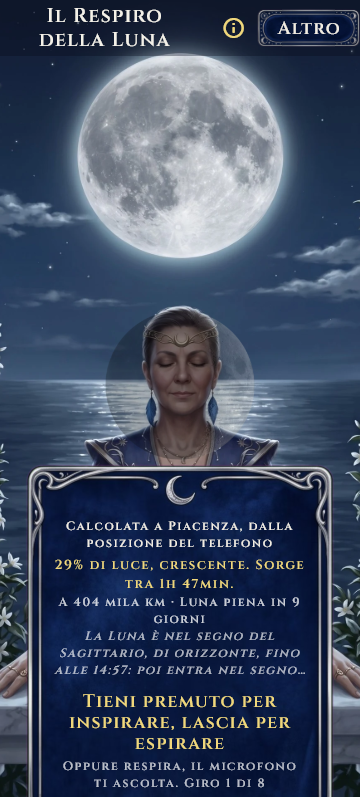
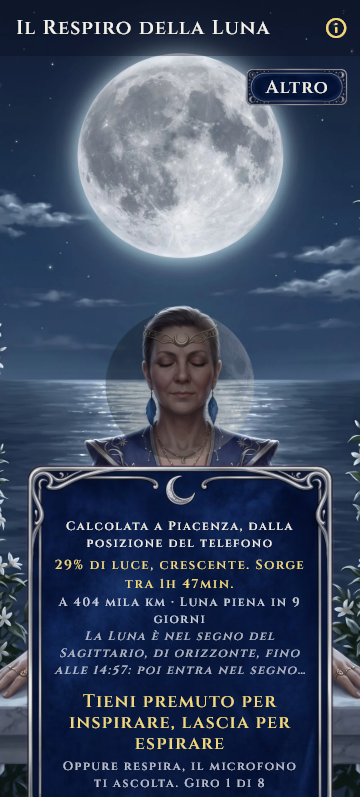
Ordine FX, aggiunta FXA.04: il titolo del Respiro tagliato sul Realme (build 2312, "Luna" spariva). La prova montava la schermata senza SogliaArte, cioe' senza il cuore: ora monta la rotta vera e pretende il titolo intero, rossa su 5 combinazioni su 8; "Altro" esce dalla barra e sta nel cielo in alt

Changed region(s): [[0.0306, 0.0, 1.0, 0.1506]]

diff --git a/test/il_titolo_del_respiro_non_tocca_i_comandi_test.dart b/test/il_titolo_del_respiro_non_tocca_i_comandi_test.dart
@@ -1,10 +1,14 @@
+import 'package:esoteric_circle/core/arts/arti_preferite.dart';
 import 'package:esoteric_circle/core/lunario/il_dial_a_moon.dart';
+import 'package:esoteric_circle/core/maestro/maestro.dart';
 import 'package:esoteric_circle/core/maestro/maestro_controller.dart';
 import 'package:esoteric_circle/design_system/components/titolo_che_non_si_rompe.dart';
 import 'package:esoteric_circle/design_system/theme/maestro_scope.dart';
+import 'package:esoteric_circle/features/maestri/rotta_arte.dart';
 import 'package:esoteric_circle/features/respiro_della_luna/il_respiro_della_luna_screen.dart';
 import 'package:esoteric_circle/features/respiro_della_luna/la_collana_delle_lune_screen.dart';
 import 'package:flutter/material.dart';
+import 'package:flutter/rendering.dart';
 import 'package:flutter_test/flutter_test.dart';
 import 'package:http/http.dart' as http;
 import 'package:http/testing.dart';
@@ -20,12 +24,23 @@ import 'package:shared_preferences/shared_preferences.dart';
 /// schermo: nessun rettangolo del testo del titolo puo' intersecare quello
 /// di un comando (la freccia indietro, le fonti, "Altro", l'angolo della
 /// barra), e il titolo resta dentro la barra in altezza.
+///
+/// **Il Respiro si monta come lo monta l'app**, dentro [SogliaArte] e con lo
+/// scaffale delle arti preferite: e' cosi' che nella barra compare il cuore.
+/// La prima stesura della prova lo montava nudo, senza cuore, e diceva 16 su
+/// 16; sul Realme, build 2312, il titolo andava a capo in tre righe e "Luna"
+/// spariva. Il titolo poi deve stare intero: si pretende che il testo non
+/// sia tagliato, non solo che non tocchi i comandi.
 void main() {
   IlDialAMoon offline() =>
       IlDialAMoon(client: MockClient((_) async => http.Response('', 503)));
 
-  Widget host(Widget figlia, double scala) => MultiProvider(
-        providers: [ChangeNotifierProvider(create: (_) => MaestroController())],
+  Widget host(Widget figlia, double scala, ArtiPreferiteController preferite) =>
+      MultiProvider(
+        providers: [
+          ChangeNotifierProvider(create: (_) => MaestroController()),
+          ChangeNotifierProvider.value(value: preferite),
+        ],
         child: MaterialApp(
           debugShowCheckedModeBanner: false,
           builder: (context, child) => MediaQuery(
@@ -34,8 +49,8 @@ void main() {
             child: child!,
           ),
           // La rotta indietro esiste, cosi' la freccia automatica c'e'.
-          home: Builder(
-              builder: (c) => const Scaffold(body: SizedBox.shrink())),
+          home:
+              Builder(builder: (c) => const Scaffold(body: SizedBox.shrink())),
           onGenerateRoute: (_) => MaterialPageRoute<void>(
               builder: (_) => MaestroScope(child: figlia)),
           initialRoute: '/schermata',
@@ -43,9 +58,14 @@ void main() {
       );
 
   final schermate = <String, Widget Function()>{
-    'il Respiro': () => IlRespiroDellaLunaScreen(
-        now: DateTime(2026, 10, 16, 21), dialAMoon: offline()),
-    'la Collana': () => LaCollanaDelleLuneScreen(now: DateTime(2026, 10, 16, 9)),
+    'il Respiro': () => SogliaArte(
+          id: 'lunology',
+          maestro: Maestro.medora,
+          child: IlRespiroDellaLunaScreen(
+              now: DateTime(2026, 10, 16, 21), dialAMoon: offline()),
+        ),
+    'la Collana': () =>
+        LaCollanaDelleLuneScreen(now: DateTime(2026, 10, 16, 9)),
   };
 
   for (final voce in schermate.entries) {
@@ -57,7 +77,11 @@ void main() {
           tester.view.physicalSize = Size(larghezza, 800);
           tester.view.devicePixelRatio = 1.0;
           addTearDown(tester.view.reset);
-          await tester.pumpWidget(host(voce.value(), scala));
+          final preferite =
+              ArtiPreferiteController(maestroAssegnato: Maestro.medora);
+          await preferite.carica();
+          addTearDown(preferite.dispose);
+          await tester.pumpWidget(host(voce.value(), scala, preferite));
           await tester.pump();
           await tester.pump(const Duration(milliseconds: 100));
           await tester.pump(const Duration(milliseconds: 100));
@@ -65,9 +89,15 @@ void main() {
           final barra = find.byType(AppBar).last;
           final rettBarra = tester.getRect(barra);
           final titolo = find.descendant(
-              of: find.byType(TitoloCheNonSiRompe), matching: find.byType(Text));
+              of: find.byType(TitoloCheNonSiRompe),
+              matching: find.byType(Text));
           expect(titolo, findsOneWidget);
           final rettTitolo = tester.getRect(titolo);
+          // Il titolo intero: nessuna riga tagliata dal limite di righe.
+          final paragrafo = tester.renderObject<RenderParagraph>(
+              find.descendant(of: titolo, matching: find.byType(RichText)));
+          expect(paragrafo.didExceedMaxLines, isFalse,
+              reason: 'titolo tagliato:${(tester.widget<Text>(titolo)).data}');
           expect(rettTitolo.top >= rettBarra.top - 0.5, isTrue,
               reason: 'il titolo esce dalla barra in alto');
           expect(rettTitolo.bottom <= rettBarra.bottom + 0.5, isTrue,
@@ -80,8 +110,10 @@ void main() {
             for (final f in [
               find.descendant(of: barra, matching: find.byType(BackButton)),
               find.descendant(of: barra, matching: find.byType(IconButton)),
+              find.descendant(of: barra, matching: find.byType(CuorePreferita)),
               find.descendant(
-                  of: barra, matching: find.byKey(const Key('respiro_altre_voci'))),
+                  of: barra,
+                  matching: find.byKey(const Key('respiro_altre_voci'))),
             ])
               for (final e in f.evaluate())
                 tester.getRect(find.byWidget(e.widget).first),

diff --git a/lib/features/respiro_della_luna/il_respiro_della_luna_screen.dart b/lib/features/respiro_della_luna/il_respiro_della_luna_screen.dart
@@ -503,21 +503,7 @@ class _IlRespiroDellaLunaScreenState extends State<IlRespiroDellaLunaScreen>
               palette: palette,
               testo: TestiDelleFonti.respiroDellaLuna,
               chiave: 'respiro_della_luna_fonti'),
-          // **UNA SOLA PORTA PER TUTTE LE ALTRE VOCI, ordine FX.** Prima
-          // c'erano due pulsanti di testo ("Trova il giorno" e "Altro")
-          // piu' l'icona delle fonti: insieme al titolo non ci stavano,
-          // ed e' esattamente il difetto che la cattura vera ha mostrato.
-          // Il Calendario Lunare (FX.11) entra nello stesso foglio delle
-          // altre voci invece di avere una porta sua.
-          Padding(
-            padding: const EdgeInsets.symmetric(vertical: 9),
-            child: PulsanteDipinto(
-              key: const Key('respiro_altre_voci'),
-              testo: 'Altro',
-              altezza: 38,
-              onTap: () => _apriLeAltreVoci(context, tier),
-            ),
-          ),
+          // La porta delle altre voci non sta piu' qui: vedi la scena.
           const AngoloDellaBarra(),
         ],
       ),
@@ -599,6 +585,30 @@ class _IlRespiroDellaLunaScreenState extends State<IlRespiroDellaLunaScreen>
                       ),
                     );
                   },
+                ),
+              ),
+            ),
+            // **UNA SOLA PORTA PER TUTTE LE ALTRE VOCI, ordine FX, ora nel
+            // cielo in alto a destra.** Prima c'erano due pulsanti di testo
+            // ("Trova il giorno" e "Altro") piu' l'icona delle fonti, poi il
+            // solo "Altro" nella barra. Ma la rotta vera monta il Respiro
+            // dentro `SogliaArte`, che aggiunge il cuore: con la freccia, le
+            // fonti, "Altro" e il cuore al titolo restavano cosi' pochi punti
+            // che sul Realme, build 2312, si leggeva "Il / Respiro / della" e
+            // "Luna" spariva. Nella barra restano solo le icone. Il nome resta
+            // corto perche' nell'angolo stia fuori dalla Luna dipinta della
+            // scena; cosa apre lo dice il foglio, voce per voce.
+            SafeArea(
+              child: Align(
+                alignment: Alignment.topRight,
+                child: Padding(
+                  padding: const EdgeInsets.all(SpacingTokens.sm),
+                  child: PulsanteDipinto(
+                    key: const Key('respiro_altre_voci'),
+                    testo: 'Altro',
+                    altezza: 38,
+                    onTap: () => _apriLeAltreVoci(context, tier),
+                  ),
                 ),
               ),
             ),

diff --git a/lib/features/respiro_della_luna/la_collana_delle_lune_screen.dart b/lib/features/respiro_della_luna/la_collana_delle_lune_screen.dart
@@ -199,8 +199,9 @@ class _LaCollanaInCorsoState extends State<_LaCollanaInCorso> {
         // Il saldo che il server ha scalato arriva subito nel borsellino a
         // schermo, senza aspettare la prossima lettura dello stato.
         final saldo = esito.dati['saldo'];
-        if (saldo is int)
+        if (saldo is int) {
           await _forse<QuestionAllowance>()?.applicaSaldo(saldo);
+        }
         await widget.collana.ricuciUnaPerlaLocalmente(giorno, now: widget.now);
       } else {
         await _avviso('Ricuci questa perla', esito.rigaPerLaPersona);

diff --git a/docs/STATO_VIVO.md b/docs/STATO_VIVO.md
@@ -7145,7 +7145,7 @@ Il fondatore, sulla 2308, con nove catture: non fatte le voci FR 1, 2, 4, 5 e 6;
 - **Il cancello e' caduto una seconda volta sul commit della correzione (0b6ee60b), run 1380, stavolta sul cancello generale dei "rossi nuovi"**: circa trenta righe rosse mai viste prima, tutte dallo stesso fatto, FX.11 porta `lunology` attiva per la prima volta ed espone la sua schermata a decine di guardie trasversali della casa che prima la saltavano. Corretti nello stesso giro: due interruttori diretti invece di `InterruttoreDelCerchio` (FX.08); `HapticFeedback` diretto fuori dalla palette in due punti, lo scorrimento del tempo (FX.03) e l'aggancio della bussola (FX.06); la porta della bussola scritta a mano invece che con `PassaggioDelCerchio.rotta` (FX.06); `lunology` senza il suo cuore (rotta da `MaestroScope` nudo a `SogliaArte`, FX.11); `lunology` fuori dai tre registri dichiarati dell'arte, tavola delle fonti, conto nei Ricordi (con un gesto vero agganciato a `RegiaDelCammino.dopoUnGesto`, non solo dichiarato), elenco delle arti vive fuori dallo scaffale (FX.11); la porta dei fogli non l'unica, due fogli con `showModalBottomSheet` diretto (FX.02-04, FX.08); due dialoghi della Collana senza `backgroundColor` dichiarato e due `TextButton` senza `style`, quindi bianchi o sotto soglia di contrasto (FX.05); la condivisione della Collana senza il premio in Eos dichiarato ne' pagato (FX.05); cinque combinazioni di testo sotto soglia di contrasto sulla riga "Esclusiva Adepto e Illuminato" (FX.11); le sei callable nuove di FX.09 non contate nell'elenco atteso (41 a 47); una collisione testuale innocua fra il separatore delle righe di Medora e il testo che un'altra guardia cerca per il dominio di un Maestro, risolta con una costante propria (FX.07); il prefisso `respiro.` senza una strada decisa per la memoria dell'account ne' per lo scarico dei dati, dichiarato `delTelefono` perche' la ricucitura resta locale (R3); una misura tipografica sotto il pavimento, size 10 portato a 12; una virgola seguita da "e" negli avvisi del Respiro; i conteggi degli highlights e della matrice dei piani non aggiornati (13 a 14, 18 a 19, 17 a 18, matrice 62 a 66). **E un difetto preso dall'anteprima rigenerata**: il titolo della Collana tagliava a "La Collana ..." nell'AppBar, corretto con `TitoloCheNonSiRompe` come il Respiro e il Calendario Lunare. `flutter analyze` pulito, 224 prove verdi in `docs/collaudo/FX/fx_integrazione_eh04_run1380.txt`.
 - **Due difetti veri presi dalle anteprime vere, non da nessuna prova (R6)**: il titolo della schermata del Respiro tagliato a "Il ..." (tre azioni di testo nella barra non lasciavano spazio, corretto con `TitoloCheNonSiRompe` e un'unica porta "Altro"); la scena intera nera nella prima cattura (le immagini non avevano finito di decodificarsi al momento dello scatto, corretto precaricandole con `precacheImage` dentro `runAsync`). **Un difetto vero preso da una prova gia' esistente**: il pannello sotto la Luna, con sei righe di testo, cresceva abbastanza da toccare il centro della Luna e il tocco sostenuto smetteva di accenderla; condensato a tre righe, `docs/collaudo/FX/fx03_pannello_regola_a.txt`.
 
-- **L'aggiunta FXA, la collana e i comandi dipinti (voci FX.13-FX.18 del manifesto).** Il fondatore, sull'anteprima della collana composta dal codice: "Non avevo chiesto di evitare grafica procedurale?". **La collana dipinta (FX.13, chiusa)**: la schermata e' lo scrigno dipinto quasi a tutto schermo, la pittura con la collana spenta e sopra i 33 ritagli tondi della pittura accesa, preparati una volta da `tool/gli_asset_dell_aggiunta_fxa.py` e posati nei centri del file `le_perle_della_collana_v1.json` (copia Dart generata e sincrona, `le_perle_della_collana.g.dart`); la Luna vera non sta piu' nelle perle, resta nella Luna di quest'ora; tolti dal ramo sei pezzi non piu' usati. **I comandi dipinti (FX.14, chiusa)**: ogni pulsante, pannello e finestra del Respiro e' un pezzo dipinto (`i_comandi_dipinti.dart`), a nove parti fatte di nove ritagli (`ImmagineANoveParti`, perche' il `centerSlice` di Flutter sa solo allungare), con una guardia nuova; la conferma comune della spesa accetta un vestito senza cambiare testi ne' chiavi. **La ricucitura vera (FX.15, aperta)**: l'ago col filo sulla perla toccata, la conferma vestita, la porta `ricuciUnaPerlaDelRespiro` scritta e provata e non pubblicata; listino invariato, 25 Eos, 3 per ciclo, 7 giorni indietro. **Il titolo (FX.16, chiusa)**: la barra cresce col testo ingrandito, 16 combinazioni su 16. **La consegna (FX.17, chiusa)**. **Il luogo vero dal GPS (FX.18, aperta)**: a ogni apertura il Respiro chiede la posizione del telefono, la salva in `luogo.dispositivo` separata dalla citta' scelta a mano, calcola tutto da li' e scrive la citta' nel pannello; ripieghi in ordine (ultima posizione del telefono, citta' scelta, invito col permesso), mai la latitudine 0; la Luna compare subito col ripiego mentre il GPS risponde. **La guida, regola del fondatore durante l'aggiunta**: "l'utente deve sapere dov'e', cosa deve fare, per ottenere cosa, obiettivo ed eventualmente guida. Non puo' indovinare": la Collana dice lo stato della perla di oggi e la data della Luna nuova della consegna, il Respiro dice cosa accende un minuto di respiro. Guardie da 797 a 801, ognuna vista rossa (`docs/collaudo/FX/fxa_regola_a.txt`).
+- **L'aggiunta FXA, la collana e i comandi dipinti (voci FX.13-FX.18 del manifesto).** Il fondatore, sull'anteprima della collana composta dal codice: "Non avevo chiesto di evitare grafica procedurale?". **La collana dipinta (FX.13, chiusa)**: la schermata e' lo scrigno dipinto quasi a tutto schermo, la pittura con la collana spenta e sopra i 33 ritagli tondi della pittura accesa, preparati una volta da `tool/gli_asset_dell_aggiunta_fxa.py` e posati nei centri del file `le_perle_della_collana_v1.json` (copia Dart generata e sincrona, `le_perle_della_collana.g.dart`); la Luna vera non sta piu' nelle perle, resta nella Luna di quest'ora; tolti dal ramo sei pezzi non piu' usati. **I comandi dipinti (FX.14, chiusa)**: ogni pulsante, pannello e finestra del Respiro e' un pezzo dipinto (`i_comandi_dipinti.dart`), a nove parti fatte di nove ritagli (`ImmagineANoveParti`, perche' il `centerSlice` di Flutter sa solo allungare), con una guardia nuova; la conferma comune della spesa accetta un vestito senza cambiare testi ne' chiavi. **La ricucitura vera (FX.15, aperta)**: l'ago col filo sulla perla toccata, la conferma vestita, la porta `ricuciUnaPerlaDelRespiro` scritta e provata e non pubblicata; listino invariato, 25 Eos, 3 per ciclo, 7 giorni indietro. **Il titolo (FX.16, chiusa)**: la barra cresce col testo ingrandito, 16 combinazioni su 16; poi sul Realme, build 2312, il titolo del Respiro si leggeva "Il / Respiro / della" senza "Luna", perche' la rotta vera (`SogliaArte`) aggiunge il cuore e la prova montava la schermata senza: la prova ora monta la rotta vera e pretende il titolo intero, e "Altro" e' uscito dalla barra, nel cielo in alto a destra. **La consegna (FX.17, chiusa)**. **Il luogo vero dal GPS (FX.18, aperta)**: a ogni apertura il Respiro chiede la posizione del telefono, la salva in `luogo.dispositivo` separata dalla citta' scelta a mano, calcola tutto da li' e scrive la citta' nel pannello; ripieghi in ordine (ultima posizione del telefono, citta' scelta, invito col permesso), mai la latitudine 0; la Luna compare subito col ripiego mentre il GPS risponde. **La guida, regola del fondatore durante l'aggiunta**: "l'utente deve sapere dov'e', cosa deve fare, per ottenere cosa, obiettivo ed eventualmente guida. Non puo' indovinare": la Collana dice lo stato della perla di oggi e la data della Luna nuova della consegna, il Respiro dice cosa accende un minuto di respiro. Guardie da 797 a 801, ognuna vista rossa (`docs/collaudo/FX/fxa_regola_a.txt`).
 - **Il terzo rosso del cancello, run 1381 sul commit 646f69a2**: quattro righe, un "finche'" con l'apostrofo, due `catch (_)` muti, due schermate del Respiro non classificate per la barra, due `showDialog` diretti nella vecchia Collana; tutte corrette.
 
 **APERTO IN ATTESA DI VERIFICA**:

diff --git a/docs/guardie.md b/docs/guardie.md
@@ -1435,6 +1435,6 @@ le altre.
 | `la_grafica_del_respiro_e_dipinta_test.dart` | nessun `CustomPainter`, nessun cerchio o alone finto, solo icone di interfaccia dichiarate (nessuna, oggi), su `lib/features/respiro_della_luna/` (R9 dell'ordine FX: la guardia gemella del lunario, che scorre `/lunario/`, copre già `lib/core/lunario/`, dove vivono i file nuovi di questo ordine, ma non questa cartella, che non contiene quella sottostringa) | 2 | dalla porta comune, piu' il cardinale proprio (6 sorgenti non generati di lib/features/respiro_della_luna) | 16/10/2026, ordine FX voce FX.12 (rossa sull'innesto `Icons.star_rounded` in `gli_eos_del_respiro.dart`, verificato col grep, `docs/collaudo/FX/fx12_grafica_del_respiro_regola_a.txt`; il primo giro era caduto per una ragione diversa dall'innesto, un falso positivo testuale: il commento di `la_bussola_della_luna.dart` nominava `CustomPainter` per dire che non lo usa, corretto riscrivendolo senza il nome della classe) | 1 |
 | `i_comandi_del_respiro_sono_dipinti_test.dart` | in `lib/features/respiro_della_luna/` nessun `FilledButton`, `ElevatedButton`, `OutlinedButton`, `TextButton`, `ActionChip`, `Chip`, `AlertDialog`, `ListTile` usato come voce di menu' ne' `BoxDecoration` a colore pieno al posto dei pezzi dipinti di `i_comandi_dipinti.dart` (aggiunta FXA.02 dell'ordine FX), nessuna eccezione dichiarata | 2 | dalla porta comune, piu' il cardinale proprio (8 sorgenti non generati di lib/features/respiro_della_luna) | 16/10/2026, ordine FX aggiunta FXA.02 (rossa su due innesti verificati col grep, `TextButton` e `BoxDecoration(color:` in `gli_eos_del_respiro.dart`, file ripristinato con la stessa sha1, `docs/collaudo/FX/fxa_regola_a.txt`) | 1 |
 | `la_collana_dipinta_test.dart` | la collana dipinta del Respiro: le posizioni del codice sono quelle del file `le_perle_della_collana_v1.json` accanto alle pitture, le due pitture e i 33 ritagli esistono, si accendono i giorni respirati e solo col compimento la perla 30, le due perle e la medaglia, ogni ritaglio sul suo centro misurato (aggiunta FXA.01) | 1 | non scopre insiemi di file | 16/10/2026, ordine FX aggiunta FXA.01 (rossa spostando di un pixel la perla 15 nella copia Dart generata, `docs/collaudo/FX/fxa_regola_a.txt`) | 1 |
-| `il_titolo_del_respiro_non_tocca_i_comandi_test.dart` | il titolo del Respiro e della Collana resta dentro la barra e non tocca nessun comando in alto, a 320, 360, 390 e 430 punti col testo a 1,0 e a 1,3 (aggiunta FXA.04) | 1 | non scopre insiemi di file | 16/10/2026, ordine FX aggiunta FXA.04 (rossa sul difetto vero: sei combinazioni su sedici col titolo fuori dalla barra prima della correzione, `docs/collaudo/FX/fxa_regola_a.txt`) | 1 |
+| `il_titolo_del_respiro_non_tocca_i_comandi_test.dart` | il titolo del Respiro e della Collana resta dentro la barra e non tocca nessun comando in alto, a 320, 360, 390 e 430 punti col testo a 1,0 e a 1,3 (aggiunta FXA.04) | 1 | non scopre insiemi di file | 16/10/2026, ordine FX aggiunta FXA.04 (rossa sul difetto vero: sei combinazioni su sedici col titolo fuori dalla barra prima della correzione; rossa di nuovo lo stesso giorno sulla rotta vera col cuore, cinque combinazioni su otto col titolo del Respiro tagliato come sul Realme, `docs/collaudo/FX/fxa_regola_a.txt`) | 1 |
 | `il_respiro_parte_dal_luogo_vero_test.dart` | il Respiro calcola dal luogo vero: col GPS concesso ogni calcolo parte da li' e la posizione si salva come del dispositivo; senza permesso i ripieghi in ordine (ultima posizione del telefono, citta' scelta a mano); senza nessun luogo nessun calcolo, mai la latitudine 0, e l'avviso della posizione (aggiunta FXA.06) | 1 | non scopre insiemi di file | 16/10/2026, ordine FX aggiunta FXA.06 (rossa due volte con l'innesto di un luogo a latitudine 0 in `_aggiornaFoto`, `docs/collaudo/FX/fxa_regola_a.txt`) | 1 |
 Microfono di Soffio del Destino e Sigillo del Sogno, ordine FN, 13 ottobre 2026: il fondatore ha ripetuto che il soffio resta troppo poco sensibile, "devo soffiare molto forte e vicino al microfono". Abbassati i tre numeri di `FormaDelSoffio` ed `LAriaCheDirada`: `energiaMinima` da 0,0018 a 0,0012, `planaritaMinima` da 0,12 a 0,10, `quanteVolteIlFondo` da 4 a 3. **Regola B, fatta dopo e confessata**: le due guardie della zona, `il_soffio_si_riconosce_dalla_forma` e `il_sigillo_si_dirada_solo_con_l_aria`, sono state lanciate solo DOPO la modifica (il lavoro era già fatto quando ci si è accorti della regola), entrambe verdi coi nuovi valori: la forma separa ancora il soffio dalla voce, dalla musica e dal tonfo (0 false aperture su 3), e il Sigillo continua a non diradare con musica, voce o rumore di fondo leggero (0 finestre), diradando col fiato vero (43 finestre).

diff --git a/docs/ordini/RAPPORTO_ORDINE_FX.md b/docs/ordini/RAPPORTO_ORDINE_FX.md
@@ -125,3 +125,5 @@ Non esistono ancora le porte che vendono la perla ricucita, l'assaggio di Respir
 **Aggiunta del 16 ottobre 2026, ordine FX, aggiunta FXA, voce FX.17 (FXA.05, la cattura e la consegna), chiusa con la prova `docs/collaudo/FX/fxa_regola_a.txt`**: la cattura del fondatore e' in `docs/collaudo/FX/catture_fondatore/`; gli asset nuovi sono nel ramo in WebP con la trasparenza riletta identica, dichiarati in `pubspec.yaml` e `docs/stato_asset.json`, il file delle posizioni accanto alle pitture; le anteprime nuove (cinque perle, collana completa, ricucitura con la conferma, pulsante dipinto) guardate una per una, e hanno preso tre difetti prima di chiudere (la pittura rimpicciolita dalla guida, la frase dell'obiettivo sulla medaglia, il testo dei pulsanti tagliato); il registro delle guardie passa da 797 a 801. Il fondatore ha chiesto in chat la build alla fine dell'aggiunta, al posto del "Nessuna build" del testo: si consegna dopo il verde di GitHub.
 
 **Aggiunta del 16 ottobre 2026, ordine FX, aggiunta FXA, voce FX.18 (FXA.06, il luogo vero dal GPS), aperta in attesa di verifica**: il comando che mostra il difetto sulla testa vista dall'Architetto, `git grep -n "dalDispositivo\|DoveSonoAdesso.scrivi\|latitudine: _luogo" 0bb56a93 -- lib`, risponde che `LuogoAttuale.dalDispositivo` non era chiamato da nessuno, che solo la citta' scelta a mano scriveva il luogo, e che la foto della NASA partiva con `latitudine: _luogo?.lat ?? 0`. Adesso il Respiro chiede il GPS a ogni apertura, salva la posizione in un posto suo (`luogo.dispositivo`, separato dalla citta' scelta, che non si cancella), calcola tutto da li' e dice la citta' in cima al pannello dipinto; ripieghi in ordine, ciascuno con la sua riga: l'ultima posizione del telefono, la citta' scelta a mano, l'invito col permesso. Mai la latitudine 0: senza luogo nessuna richiesta alla NASA, solo la fase vera. La Luna compare subito col ripiego mentre il GPS risponde (prima la foto aspettava il GPS e la Luna mancava, preso dalla prova della schermata). Prova `test/il_respiro_parte_dal_luogo_vero_test.dart` 4 su 4, vista rossa due volte. Aspetta il fondatore sul telefono, col GPS vero.
+
+**Aggiunta del 16 ottobre 2026, ordine FX, aggiunta FXA, voce FX.16 (FXA.04, il titolo), un difetto vero visto sul telefono dopo la chiusura, prova `test/il_titolo_del_respiro_non_tocca_i_comandi_test.dart`**: installata la build 2312 dal commit 751f502a sul Realme, il titolo del Respiro si leggeva "Il / Respiro / della" e "Luna" spariva. Padre FXA.04, la prova stessa: montava il Respiro senza `SogliaArte`, cioe' senza il cuore che la rotta vera (FX.11) aggiunge alla barra, e diceva 16 su 16 su una barra che l'app non mostra. Riscritta sulla rotta vera e col titolo che non deve superare le sue righe, e' caduta su 5 combinazioni del Respiro su 8 (320 e 360 col testo a 1,0 e a 1,3, 390 a 1,3); "Altro" esce dalla barra e sta nel cielo, nell'angolo in alto a destra, fuori dalla Luna dipinta (`docs/preview/FX/fx0234_respiro_scena_ferma.png`): 16 su 16. La build 2312 si rifa' dal commit della correzione.

diff --git a/docs/ordini/ORDINE_FX_MANIFESTO.md b/docs/ordini/ORDINE_FX_MANIFESTO.md
@@ -146,11 +146,11 @@ MISURA: la prova della schermata tocca la perla di tre giorni fa, vede l'ago col
 
 ## VOCE FX.16
 
-**CHIUSA.** (Ordine FX aggiunta, voce FXA.04.) Il titolo. Nessun titolo delle schermate del Respiro tocca i comandi in alto, fra 320 e 430 punti e col testo ingrandito fino a 1,3: la barra cresce con l'ingrandimento (`altezzaDellaBarraDelRespiro`, fino a 1,4 volte), e anche il titolo della bussola passa da `TitoloCheNonSiRompe`. **Una nota onesta sulla cattura del fondatore** (`docs/collaudo/FX/catture_fondatore/fx_fondatore_collana_01.jpg`): il pulsante di chiusura sopra il titolo, insieme alla matita e alla condivisione, sono i comandi dell'anteprima della cattura di Android, non dell'app; la prova misura comunque il caso vero che quella cattura ha fatto cercare, e lo ha trovato col testo ingrandito.
+**CHIUSA.** (Ordine FX aggiunta, voce FXA.04.) Il titolo. Nessun titolo delle schermate del Respiro tocca i comandi in alto, fra 320 e 430 punti e col testo ingrandito fino a 1,3: la barra cresce con l'ingrandimento (`altezzaDellaBarraDelRespiro`, fino a 1,4 volte), e anche il titolo della bussola passa da `TitoloCheNonSiRompe`. **Un difetto vero preso sul telefono, dopo la prima chiusura**: sul Realme, build 2312, il titolo del Respiro si leggeva "Il / Respiro / della" e "Luna" spariva. La rotta vera monta il Respiro dentro `SogliaArte`, che aggiunge il cuore alla barra, e la prima stesura della prova lo montava nudo, senza cuore: misurava una barra che l'app non mostra. La prova ora monta la rotta vera e pretende anche il titolo intero, non solo lontano dai comandi; il pulsante "Altro" esce dalla barra e sta nel cielo, nell'angolo in alto a destra, fuori dalla Luna dipinta (`docs/preview/FX/fx0234_respiro_scena_ferma.png`). **Una nota onesta sulla cattura del fondatore** (`docs/collaudo/FX/catture_fondatore/fx_fondatore_collana_01.jpg`): il pulsante di chiusura sopra il titolo, insieme alla matita e alla condivisione, sono i comandi dell'anteprima della cattura di Android, non dell'app; la prova misura comunque il caso vero che quella cattura ha fatto cercare, e lo ha trovato col testo ingrandito.
 
 DOMANDA: la cattura del fondatore, "dove il titolo 'La Collana delle Lune' finisce sotto il pulsante di chiusura"
 PROVA: `test/il_titolo_del_respiro_non_tocca_i_comandi_test.dart`
-MISURA: combinazioni con il titolo fuori dalla barra o sopra un comando: da 6 su 16 (il Respiro a 360 e 430 col testo a 1,3; la Collana a 320, 360, 390 e 430 col testo a 1,3) a 0 su 16.
+MISURA: combinazioni con il titolo fuori dalla barra o sopra un comando: da 6 su 16 (il Respiro a 360 e 430 col testo a 1,3; la Collana a 320, 360, 390 e 430 col testo a 1,3) a 0 su 16; poi, con la rotta vera e il cuore nella barra, combinazioni del Respiro col titolo tagliato da 5 su 8 (320 e 360 col testo a 1,0 e a 1,3, 390 a 1,3) a 0 su 8.
 
 ## VOCE FX.17
 

diff --git a/docs/tipografia/spazi.md b/docs/tipografia/spazi.md
@@ -1,6 +1,6 @@
 # Censimento dei vuoti verticali
 
-<!-- VUOTI_CENSITI: 183 -->
+<!-- VUOTI_CENSITI: 182 -->
 <!-- FILE_CON_VUOTI: 78 -->
 <!-- VUOTI_ECCESSIVI: 2 -->
 <!-- Generato da tool/censimento_spazi.dart. Non si scrive a mano: si rigenera. -->
@@ -11,7 +11,7 @@ Misura i vuoti verticali DICHIARATI nel sorgente: `SizedBox(height: n)` e i riem
 
 | Grandezza | Valore |
 | --- | --- |
-| Vuoti verticali dichiarati | **183** |
+| Vuoti verticali dichiarati | **182** |
 | File che ne contengono | **78** |
 | Oltre la soglia di 48 punti | **2** |
 
@@ -29,7 +29,7 @@ La soglia NON e' scelta, e' derivata dalla distribuzione qui sotto, come la satu
 | 6 | 19 |
 | 7 | 3 |
 | 8 | 7 |
-| 9 | 3 |
+| 9 | 2 |
 | 10 | 3 |
 | 12 | 2 |
 | 16 | 2 |
@@ -51,7 +51,7 @@ La soglia NON e' scelta, e' derivata dalla distribuzione qui sotto, come la satu
 | `lib/features/horoscope/il_periodo_view.dart` | 7 | 0 |
 | `lib/features/passport/cosmic_passport_screen.dart` | 7 | 0 |
 | `lib/features/real_time_cosmo/cielo_reale_screen.dart` | 7 | 0 |
-| `lib/features/respiro_della_luna/il_respiro_della_luna_screen.dart` | 7 | 0 |
+| `lib/features/respiro_della_luna/il_respiro_della_luna_screen.dart` | 6 | 0 |
 | `lib/features/santuario/daily_strip.dart` | 6 | 0 |
 | `lib/features/synastry/sinastria_share_card.dart` | 6 | 1 |
 | `lib/features/tarot/tarot_selectors.dart` | 6 | 0 |
